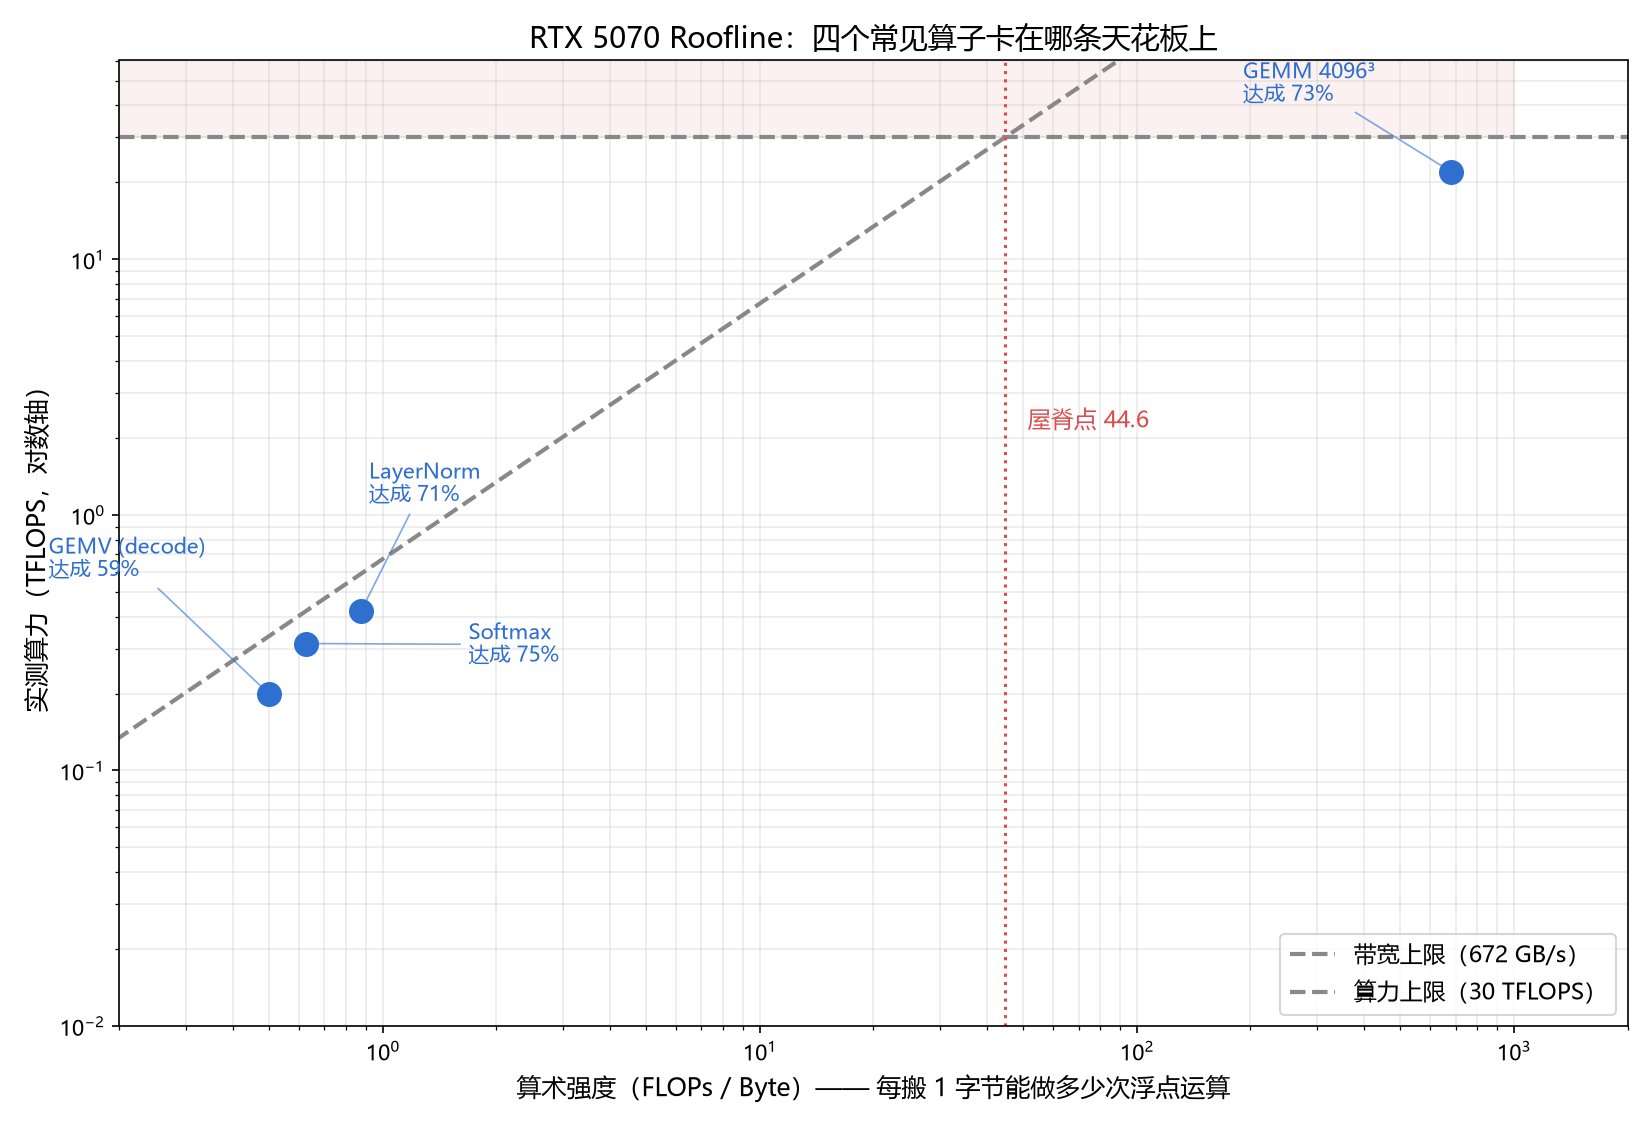
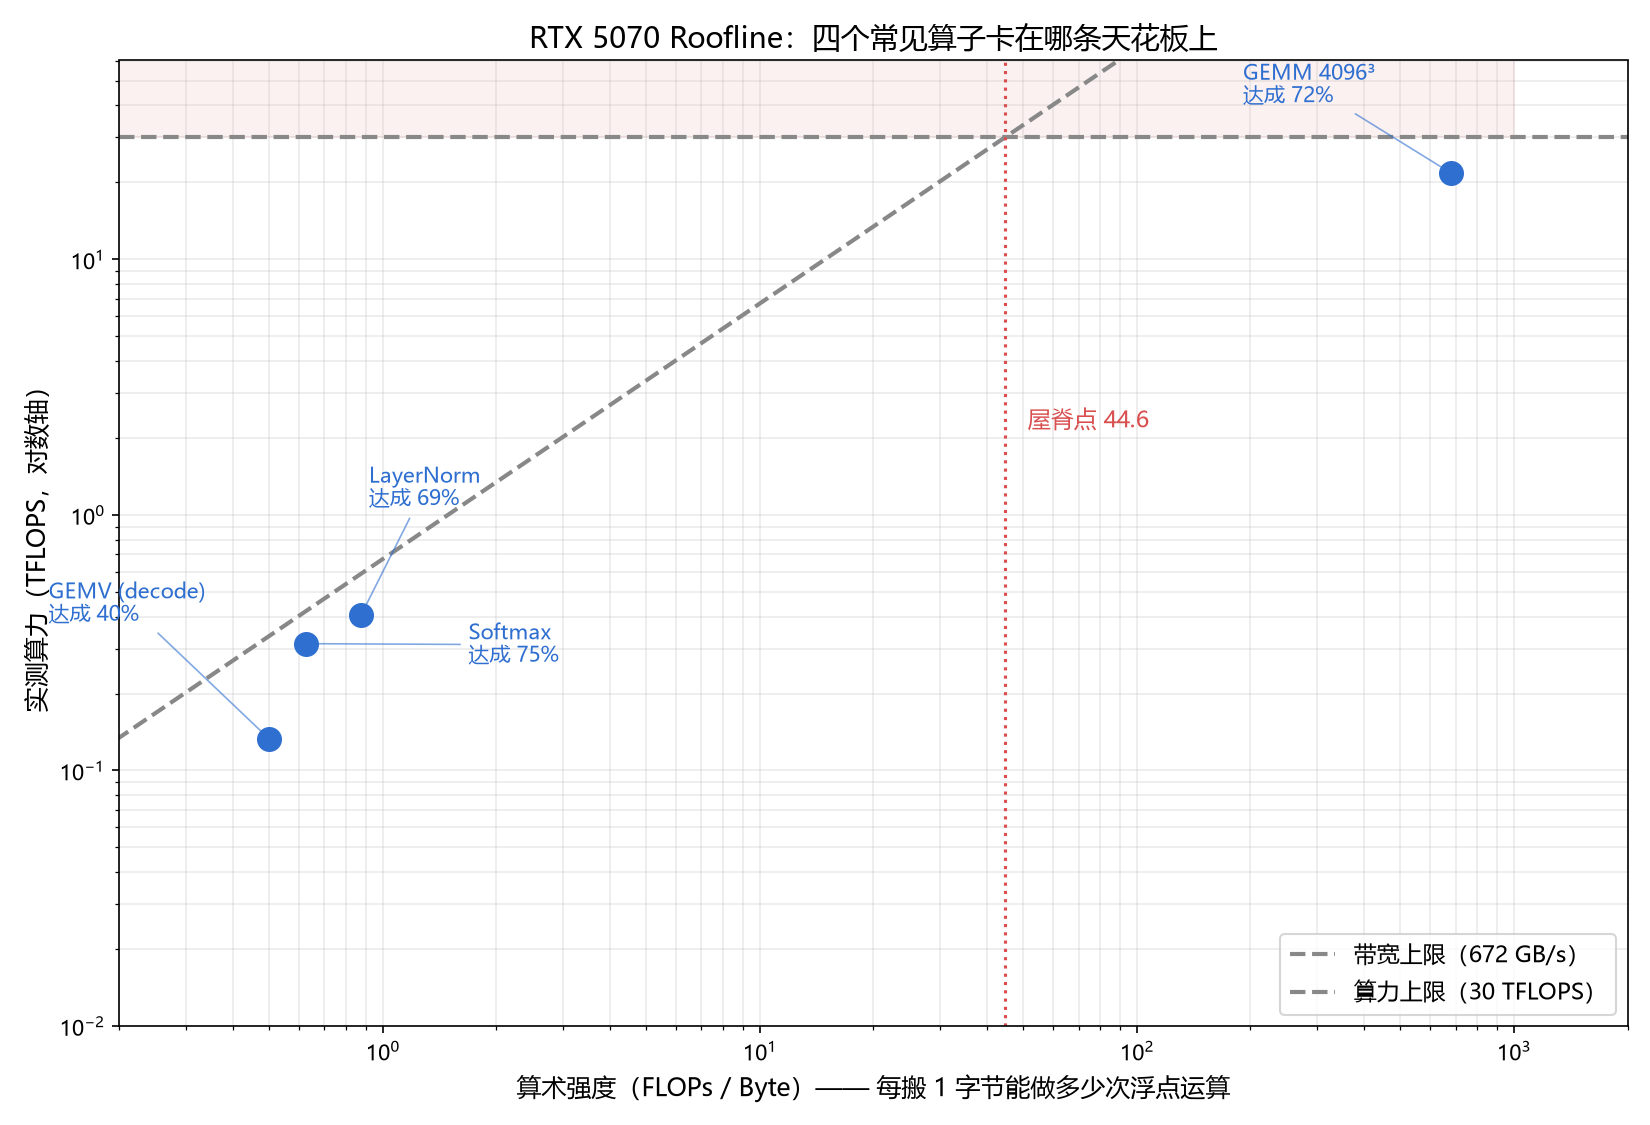
chore: 系统重装后的灾难恢复记录（零损失）
事件: Windows 重装 (2026-10-11 13:49)

恢复结果:
- C:\code 仓库完整保留 (47 文件 / 6 提交 / 692425a)
- 整个 Ubuntu 环境从救援 vhdx 恢复: wsl --import --vhd
  CUDA 12.8 / torch 2.11.0+cu128 / venv / ~/work 全部回来
- Git 用 PortableGit 2.56.0 免管理员装回 (华为云镜像)
- 修掉 .gitconfig 里残留的失效代理 (127.0.0.1:7890 无监听)
- 凭据助手从已不存在的 gh.exe 换成 GCM

新坐标:
  WSL 3.0.1.0 / 发行版 Ubuntu-Restored / vhdx 在 %LOCALAPPDATA%\WSL\
  Git 在 %LOCALAPPDATA%\Programs\PortableGit\  / PowerShell 退回 5.1

验证:
  L01 五项验收全绿 (含自定义 CUDA kernel)
  L04 Roofline 全链路复现成功 (采集->计算->中文渲染->拷回)

新增: verify_restore.sh, run_acceptance.sh, lessons/code/traces/l04_roofline.png (重算)
更新: user-level.md 新增 6.6 节灾难恢复记录 + v2.1

diff --git a/user-level.md b/user-level.md
@@ -467,6 +467,44 @@ cd ~/work && python bench.py        # ③ 跑
 
 **改动只在仓库里做**，然后用 `bash ~/work/sync.sh` 单向同步到 `~/work`。**不要在 `~/work` 里改代码** —— 会被下次同步覆盖。
 
+### 6.6 ⚠ 系统重装与灾难恢复（2026-10-11）
+
+**事件**：Windows 重装（新系统安装时间 `2026-10-11 13:49:22`）。
+
+**恢复结果：全部救回，零损失。**
+
+| 东西 | 结果 | 恢复方式 |
+|---|---|---|
+| **`C:\code` 仓库** | ✅ 完整（47 文件 / 6 提交 / `692425a`） | 就在 C 盘，没被清 |
+| **整个 Ubuntu 环境** | ✅ 完整 | 从救援出的 `ext4.vhdx` 用 `wsl --import --vhd` 导入 |
+| CUDA 12.8 / torch 2.11 / venv / `~/work` | ✅ 全在 | 同上（省掉约 1 小时重装） |
+| Git | ✅ PortableGit 2.56.0 | 华为云镜像（GitHub 被 DNS 污染，winget 会卡死） |
+| Git 凭据 | ✅ GCM | 原配置指向已不存在的 `gh.exe`，已换 |
+
+**新环境坐标（和重装前不同，注意）**
+
+| 项目 | 值 |
+|---|---|
+| WSL 版本 | **3.0.1.0**（原 2.5.7.0） |
+| 发行版名 | **`Ubuntu-Restored`**（原 `Ubuntu`），已是默认 |
+| vhdx 位置 | `C:\Users\jiang\AppData\Local\WSL\Ubuntu-Restored\ext4.vhdx` |
+| Git | `%LOCALAPPDATA%\Programs\PortableGit\cmd\git.exe` |
+| PowerShell | **5.1**（7 被清掉了，待重装） |
+| GitHub CLI | ❌ 未安装 |
+| `.gitconfig` | 已备份为 `.gitconfig.bak-20261011`；**代理已移除**（Clash 未装，7890 无监听） |
+
+**恢复过程中确认的坑**
+
+| # | 现象 | 原因 / 解法 |
+|---|---|---|
+| 1 | `wsl --version` 报 `REGDB_E_CLASSNOTREG` | WSL 的 MSIX 只是个壳（只有 `wsl.exe`，没有 `wslservice.exe`），运行时 MSI 装失败。**解**：管理员跑 `wsl --install --no-distribution`，提示"按任意键修复"时**按空格**（别按 Ctrl+C） |
+| 2 | `winget install Git.Git` 卡死 10 分钟 | **`github.com` DNS 被污染**，winget 从 GitHub 下载会挂。**解**：用国内镜像（`mirrors.huaweicloud.com/git-for-windows/`）+ `PortableGit` 自解压版，**免管理员** |
+| 3 | `git` 连不上远端 | `.gitconfig` 里残留 `proxy=127.0.0.1:7890`，但 Clash 没装、端口无监听。**解**：移除代理（直连实测可用） |
+| 4 | 当前用户不是管理员 | winget 装 MSI 需要提权 → 一律改用**用户目录 zip/自解压**方案 |
+
+**🔴 遗留**：`C:\WindowsOld-Rescue-20261011\08-WSL\` 里那份 **24.67 GB 的救援 vhdx 还在**（`--import --vhd` 是复制不是移动）。
+确认新环境稳定运行几天后再删 —— 它是这次唯一的环境副本。
+
 **结论：走 WSL2 路线**（绕开 MSVC 缺失、对齐 JD 的 Linux 要求、为 W12–W13 的 vLLM 铺路）。
 `C:\tools` 那套 MinGW + OpenCV 与 CUDA 是**两条互不相通的编译链路**，整条路线里基本用不上，不要在它上面折腾。
 
@@ -609,6 +647,7 @@ cd ~/work && python bench.py        # ③ 跑
 | v1.9 | 2026-10-11 | ① `ui.perfetto.dev` 被墙（实测 HTTP 000），改为**离线渲染**：`l03_render.py` 把 trace 画成 PNG。② 新增 **5.7 节画图约定**：图表标注用中文、字体从 Windows 目录取、必关 `axes.unicode_minus`、可视化必须离线可复现、单位必须统一。③ Windows Terminal 默认 profile 从 5.1 改为 PowerShell 7（7.6.6 本已是最新） |
 | v2.0 | 2026-10-11 | **L04 完成 ✅。** 新增公共画图模块 `plot_style.py`（中文字体 + 配色，以后所有图共用）。手算 + 实测四个算子的算术强度，建立 Roofline 基线（6.3 节）：**屋脊点 44.6**；GEMM AI=683 是算力瓶颈；GEMV/Softmax/LayerNorm AI<1 全是带宽瓶颈。**同硬件 GEMM 22.0 vs GEMV 0.20 TFLOPS，差 110 倍** |
 | | | ⚠ 待办仍挂着：**NVIDIA 控制面板 → 开发者 → 管理 GPU 性能计数器 → 允许所有用户**（W8 之前的硬前置） |
+| v2.1 | 2026-10-11 | **系统重装，全部恢复，零损失。** 新增 6.6 节灾难恢复记录：整个 Ubuntu（CUDA 12.8 / torch 2.11 / venv / `~/work`）从救援 vhdx 用 `wsl --import --vhd` 恢复；Git 用 PortableGit 2.56.0 免管理员装回（GitHub DNS 被污染，winget 走不通）；修掉 `.gitconfig` 里残留的失效代理。新坐标：发行版改名 `Ubuntu-Restored`、WSL 升到 3.0.1.0、PowerShell 退回 5.1（待重装）、gh 未装。**L01 五项验收重跑全绿，L04 全链路复现成功** |
 
 ---
 
